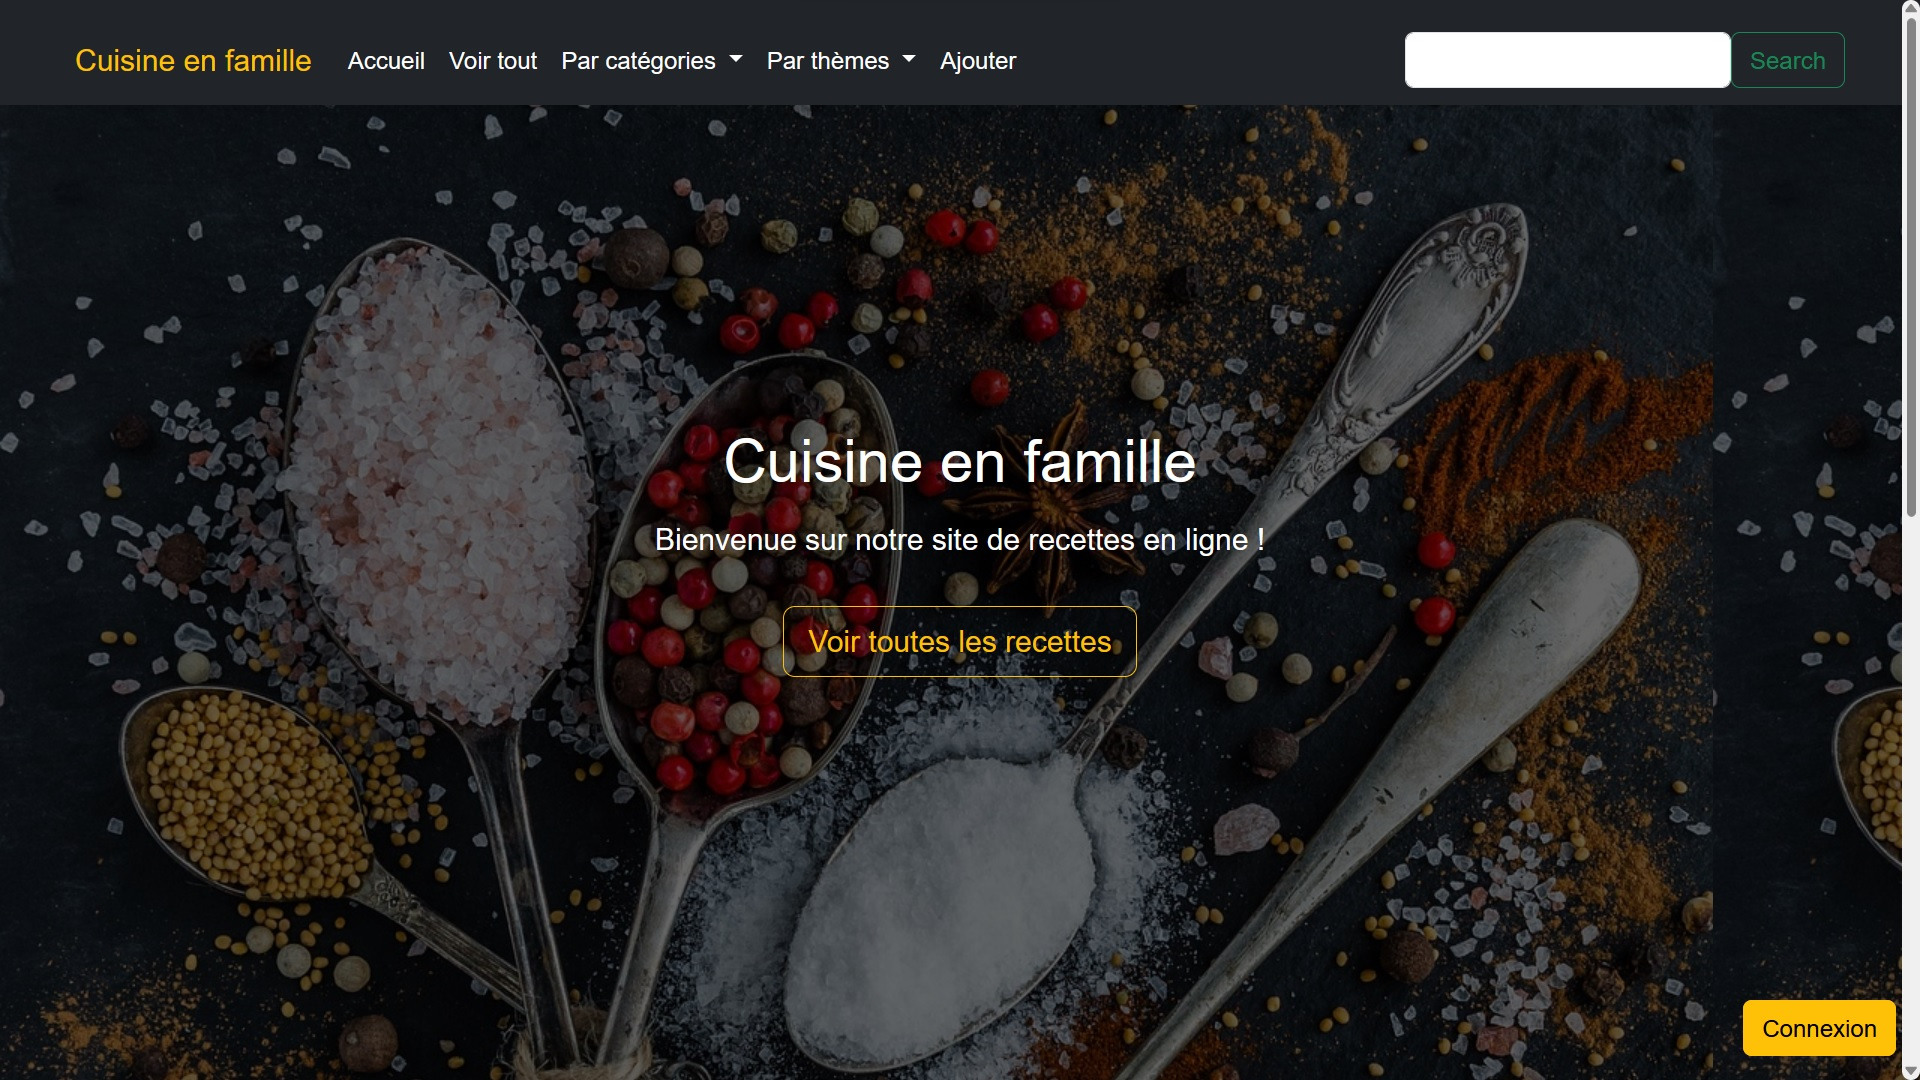
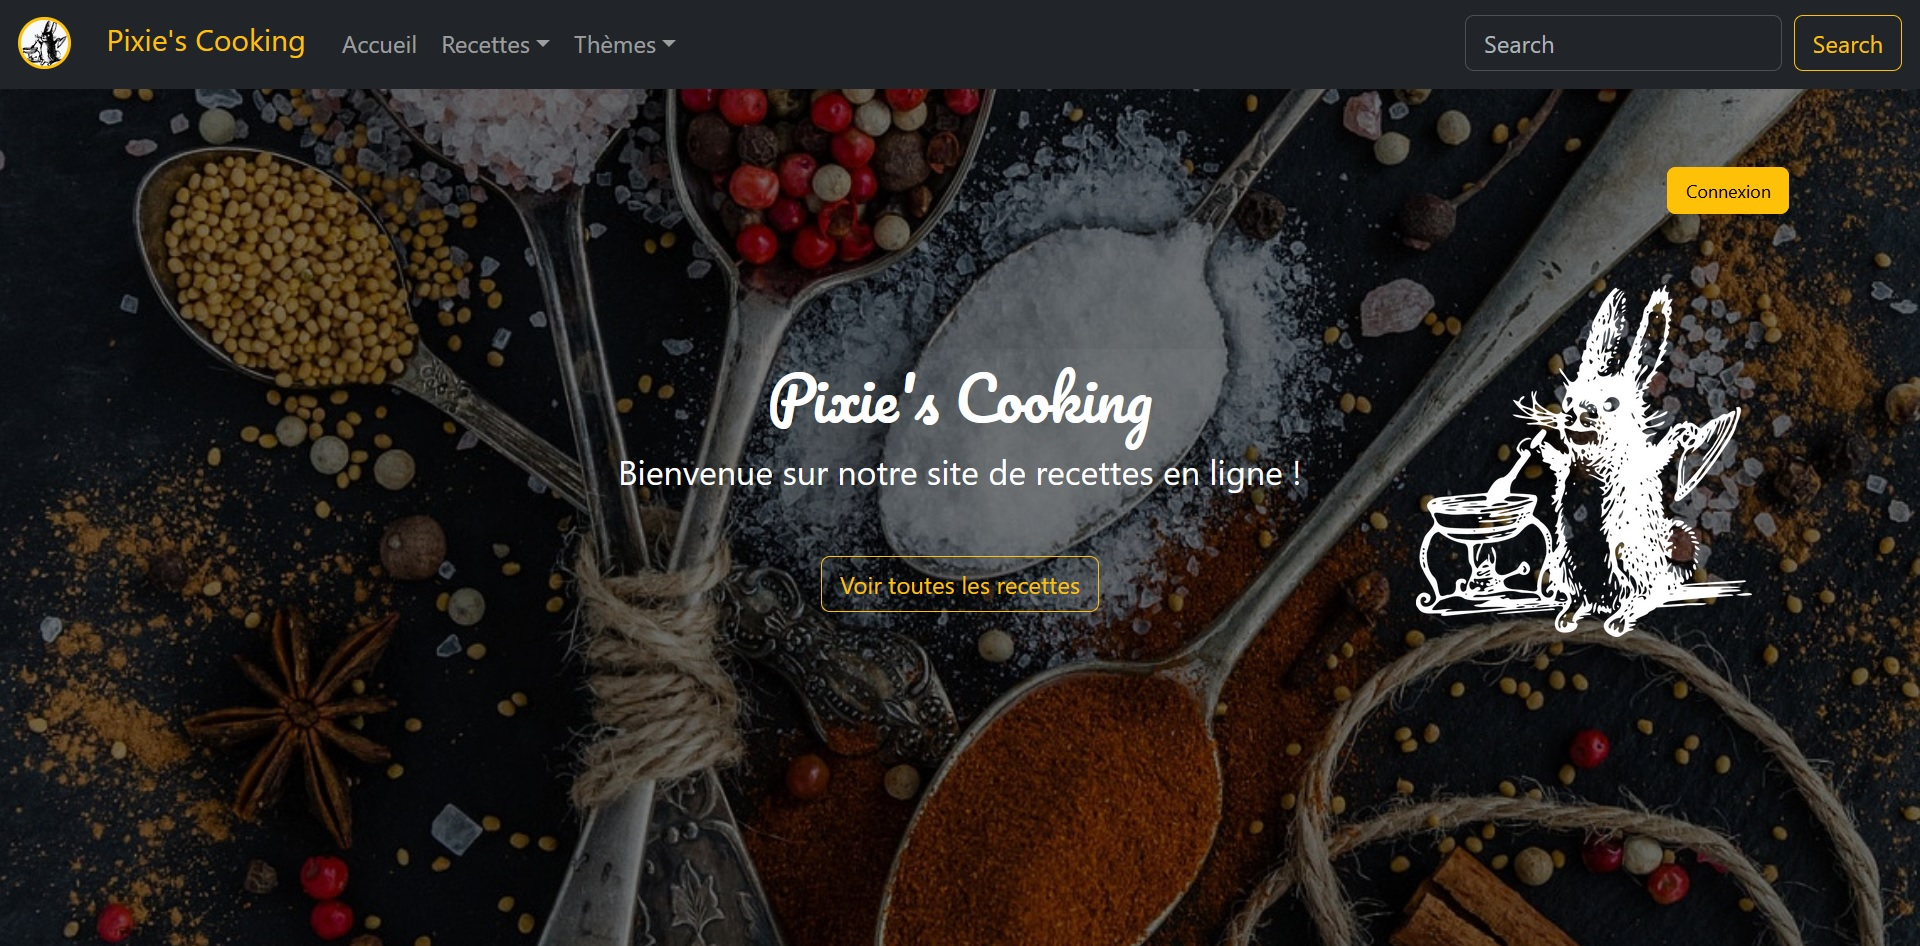
corrections data

diff --git a/components/data.js b/components/data.js
@@ -12,7 +12,7 @@ export const projectData = [
     },
     {
       id: 2,
-      title: 'Cuisine en Famille',
+      title: "Pixie's Cooking",
       description:
         'Une application web destinée à un usage familial pour partager et découvrir les recettes de chacun. Contruit avec React, API REST Node.js, mySQL et Bootstrap.',
       image : "/image/cuisine.jpg",
